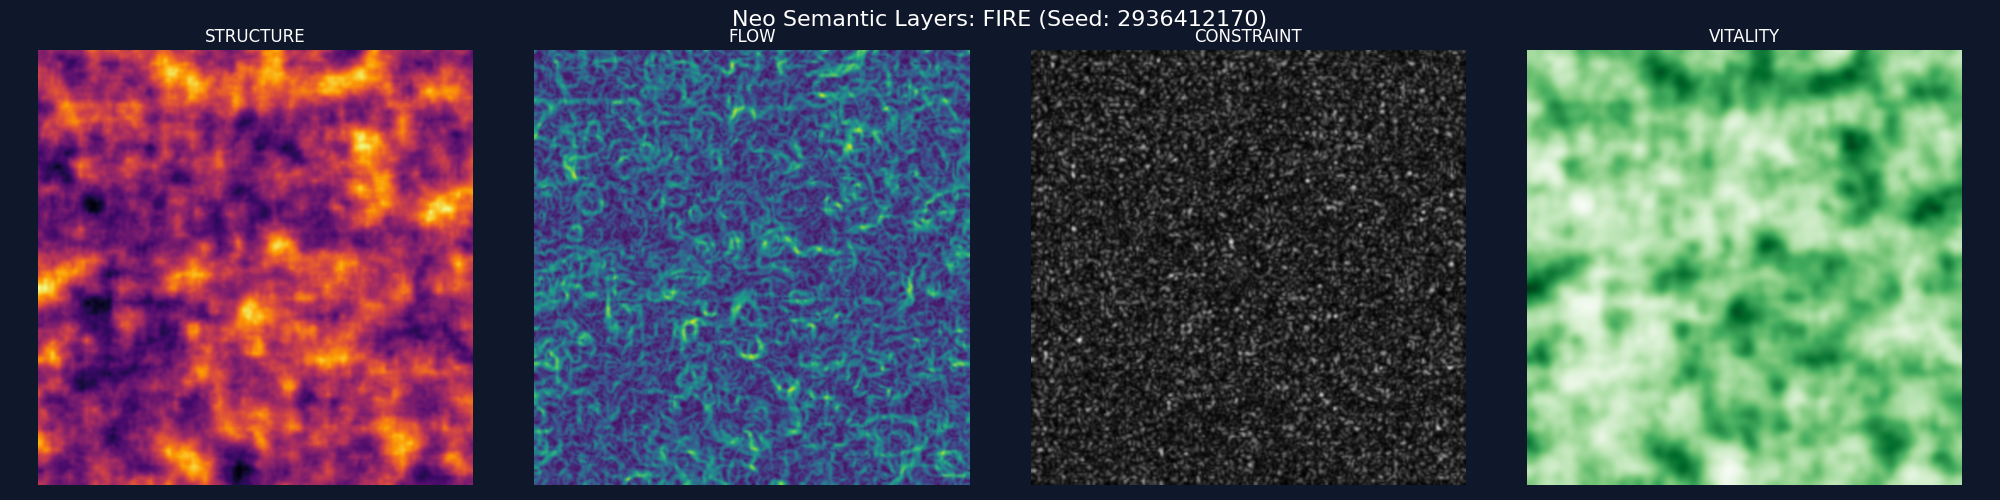
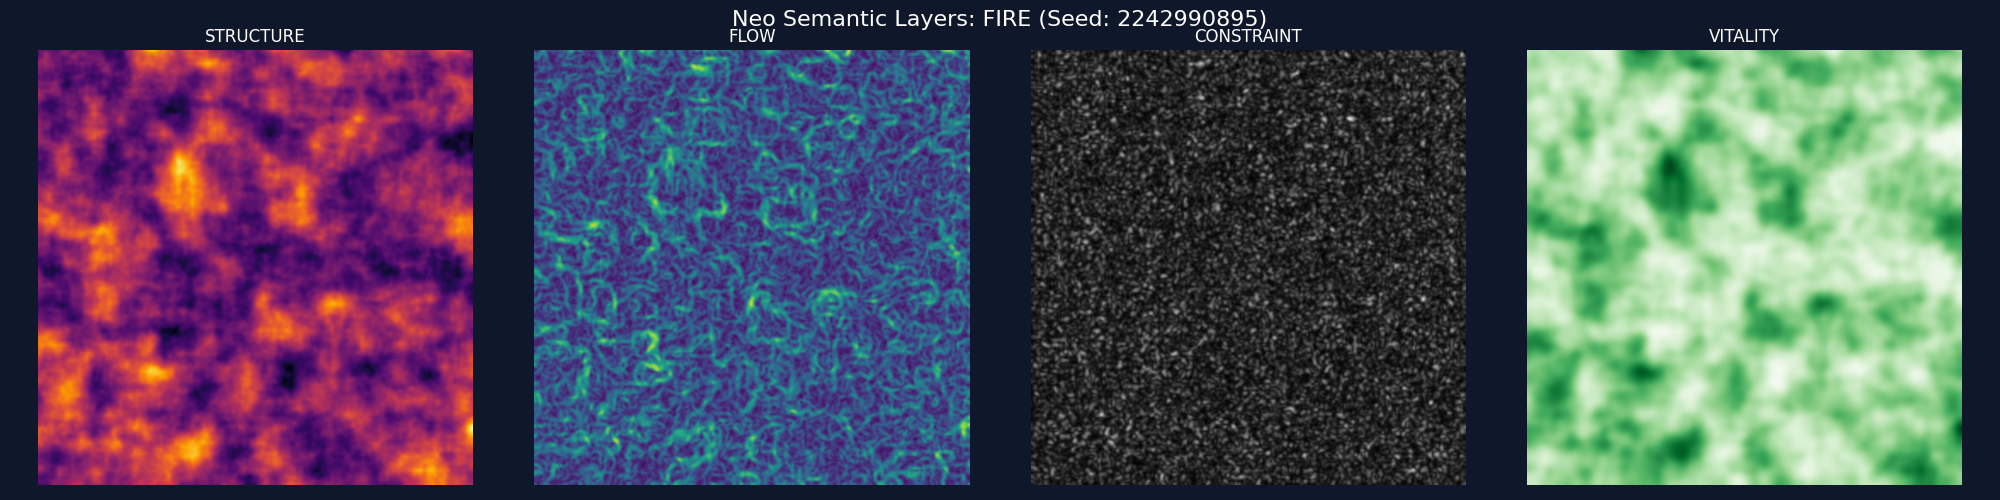
phase 7

diff --git a/Neo/Neo Noise/neo_gco.py b/Neo/Neo Noise/neo_gco.py
@@ -52,29 +52,91 @@ class GlobalClosureOperator:
         
     def run(self) -> ClosureResult:
         """
-        Execute the full Closure Pipeline:
-        1. Detect Candidates
-        2. Resolve Competition
-        3. Commit (Feedback)
+        Execute the full Closure Pipeline in Stages:
+        1. Hydrology (Rivers, Lakes)
+        2. Hydration Feedback (Water -> Vitality)
+        3. Ecology (Forests)
+        4. Commitment (Erosion)
         """
-        # 1. Detection
-        candidates = self.detect_candidates()
+        print("    Running Sequential Closure Pipeline...")
+        all_committed = []
         
-        # 2. Composition/Competition
-        # For this prototype, we just verify they don't overlap blindly, 
-        # or we just accept top N.
-        # Let's simple filter by score for now.
-        committed = self.resolve_competition(candidates)
+        # --- Stage 1: Hydrology ---
+        hydro_candidates = []
+        rivers = self.detect_rivers()
+        hydro_candidates.extend(rivers)
+        # Lakes depend on rivers
+        lakes = self.detect_lakes(rivers)
+        hydro_candidates.extend(lakes)
         
-        # 3. Commit (Feedback)
-        self.apply_feedback(committed)
+        # Resolve Hydro competition
+        hydro_committed = self.resolve_competition(hydro_candidates)
+        all_committed.extend(hydro_committed)
         
-        # 4. Visualization
-        # We generate overlay AFTER feedback, though detecting features was done on PRE-feedback layers.
-        # This is fine.
-        overlay = self.generate_overlay(committed)
+        # --- Stage 2: Feedback (Hydration & Erosion) ---
+        # 1. Erosion: Rivers carve the land (physically)
+        self.apply_feedback(hydro_committed)
         
-        return ClosureResult(committed, overlay)
+        # 2. Hydration: Water boosts Vitality (ecologically)
+        self.apply_hydration(hydro_committed)
+        
+        # --- Stage 3: Ecology ---
+        # Now that Vitality is boosted near rivers, detecting forests will find 'Oases'.
+        eco_candidates = self.detect_forests()
+        
+        # Resolve Eco competition (Forests usually don't overlap rivers due to logic, but good to check)
+        eco_committed = self.resolve_competition(eco_candidates)
+        all_committed.extend(eco_committed)
+        
+        # --- Stage 4: Final Output ---
+        
+        # We generate overlay from ALL features
+        overlay = self.generate_overlay(all_committed)
+        
+        return ClosureResult(all_committed, overlay)
+
+    def apply_hydration(self, features: List[FeatureCandidate]):
+        """
+        Boost Vitality layer near water features.
+        """
+        vitality = self.ctx.layers['Vitality']
+        w, h = self.ctx.width, self.ctx.height
+        
+        print(f"    Applying Hydration to {len(features)} water features...")
+        
+        # Create a hydration mask
+        hydration_boost = np.zeros_like(vitality)
+        
+        # Parameters
+        RIVER_BOOST = 0.4
+        LAKE_BOOST = 0.5
+        RADIUS = 3 # Pixel radius for hydration
+        
+        for feat in features:
+            boost_val = 0.0
+            if feat.type == 'river': boost_val = RIVER_BOOST
+            elif feat.type == 'lake': boost_val = LAKE_BOOST
+            else: continue
+            
+            for x, y in feat.coordinates:
+                # Simple box blur / radius spread
+                for dy in range(-RADIUS, RADIUS+1):
+                    for dx in range(-RADIUS, RADIUS+1):
+                        ny, nx = y+dy, x+dx
+                        if 0 <= ny < h and 0 <= nx < w:
+                            # Distance falloff?
+                            dist = np.sqrt(dx*dx + dy*dy)
+                            if dist <= RADIUS:
+                                factor = 1.0 - (dist / (RADIUS + 1))
+                                current = hydration_boost[ny, nx]
+                                # Keep max hydration
+                                hydration_boost[ny, nx] = max(current, boost_val * factor)
+        
+        # Apply mask to Vitality
+        # Clip to 1.0
+        # self.ctx.layers['Vitality'] = np.clip(vitality + hydration_boost, 0, 1) # In-place update?
+        # Actually numpy add is distinct.
+        self.ctx.layers['Vitality'] = np.clip(vitality + hydration_boost, 0.0, 1.0)
 
     def apply_feedback(self, features: List[FeatureCandidate]):
         """

diff --git a/Neo/Neo Noise/neo_layer_generator.py b/Neo/Neo Noise/neo_layer_generator.py
@@ -67,7 +67,7 @@ def visualize_closure_overlay(closure_result, layers, inscription):
         ('Structure', 'inferno', "Final Terrain (Eroded)"),
         ('Flow', 'viridis', "Following Flow (Validation)"),
         ('Constraint', 'gray', "Avoiding Constraint (Validation)"),
-        ('Vitality', 'Greens', "Ecological Context")
+        ('Vitality', 'Greens', "Ecological Context (Hydrated)")
     ]
     
     for i, (layer_name, cmap, title) in enumerate(views):
@@ -108,7 +108,7 @@ def visualize_closure_overlay(closure_result, layers, inscription):
         ax.axis('off')
 
     plt.tight_layout()
-    filename = os.path.join(OUTPUT_DIR, f"closure_phase6_{inscription}.png")
+    filename = os.path.join(OUTPUT_DIR, f"closure_phase7_{inscription}.png")
     plt.savefig(filename, facecolor=fig.get_facecolor())
     plt.close()
     print(f"Saved Closure Analysis: {filename}")
